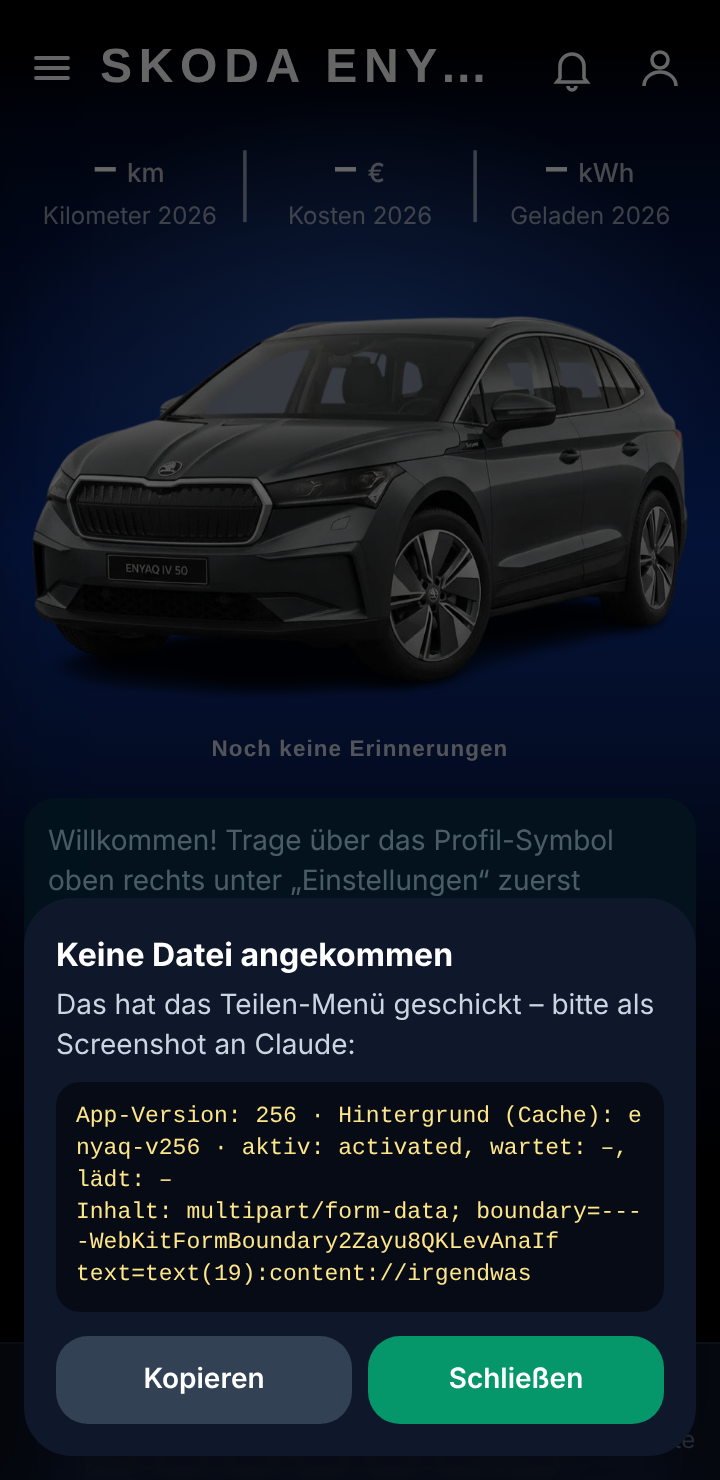
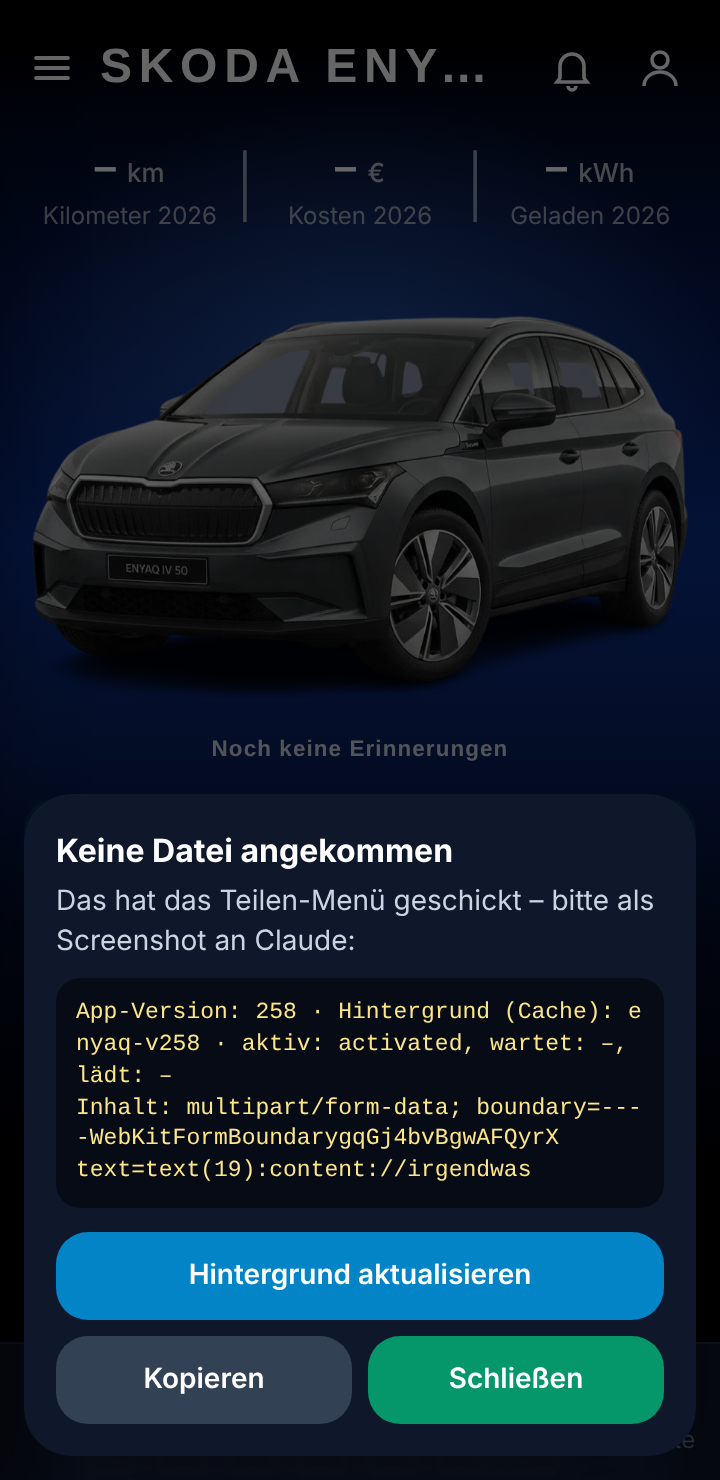
Teilen-Menü (Samsung Internet): formData() scheitert dort – Datei aus dem Rohinhalt selbst auslesen
Claude-Session: https://claude.ai/code/session_01AEp6y4YjJFmESYQ6H67tzx

Changed region(s): [[0.0611, 0.5595, 0.9472, 0.9014]]

diff --git a/sw.js b/sw.js
@@ -5,11 +5,11 @@
  * - Die KI-Abfrage (/api/…) wird NIE gecacht und läuft immer übers Netz.
  * Bei größeren Änderungen am Cache-Konzept CACHE_VERSION erhöhen. */
 
-const CACHE_VERSION = 'v257';
+const CACHE_VERSION = 'v258';
 const CACHE_NAME = 'enyaq-' + CACHE_VERSION;
 
 // Dateien, die beim Installieren vorab geladen werden
-const SAME_ORIGIN_ASSETS = ['./', './index.html', './app.css?v=257', './app.js?v=257', './Bilder/Enyaq/hero/1.webp'];
+const SAME_ORIGIN_ASSETS = ['./', './index.html', './app.css?v=258', './app.js?v=258', './Bilder/Enyaq/hero/1.webp'];
 const CDN_ASSETS = [
   'https://cdn.jsdelivr.net/npm/chart.js@4.4.3/dist/chart.umd.min.js'
 ];
@@ -37,6 +37,17 @@ self.addEventListener('activate', (event) => {
   })());
 });
 
+/** multipart/form-data als Text zerlegen → [{ name, filename, type, data }] (nur für Textdateien gedacht) */
+function shareParts(body, ct) {
+  const m = /boundary=(?:"([^"]+)"|([^;]+))/i.exec(ct || ''), b = m ? (m[1] || m[2]).trim() : (/^--([^\r\n]+)/.exec(body) || [])[1];
+  if (!b) return [];
+  return body.split('--' + b).slice(1).filter((p) => !/^--\s*$/.test(p) && p.trim() !== '--').map((p) => {
+    p = p.replace(/^\r?\n/, ''); const i = p.search(/\r?\n\r?\n/); if (i < 0) return null;
+    const head = p.slice(0, i), data = p.slice(i).replace(/^\r?\n\r?\n/, '').replace(/\r?\n$/, '');
+    const g = (re) => (re.exec(head) || [])[1] || '';
+    return { name: g(/name="([^"]*)"/i), filename: g(/filename="([^"]*)"/i), type: g(/content-type:\s*([^\r\n;]+)/i).trim(), data };
+  }).filter(Boolean);
+}
 self.addEventListener('fetch', (event) => {
   const req = event.request;
   const url = new URL(req.url);
@@ -55,7 +66,16 @@ self.addEventListener('fetch', (event) => {
         const f = ent.map((e) => e[1]).find((v) => v && typeof v !== 'string' && v.size > 0), t = ent.map((e) => e[1]).find((v) => typeof v === 'string' && /Start of trip/.test(v));
         if (f) await cache.put('/share-file', new Response(f, { headers: { 'content-type': f.type || 'text/csv', 'x-name': encodeURIComponent(f.name || 'fahrtenbuch.csv') } }));
         else if (t) await cache.put('/share-file', new Response(t, { headers: { 'content-type': 'text/csv', 'x-name': 'fahrtenbuch.csv' } }));
-      } catch (err) { dbg.err = String(err && err.message || err); try { dbg.body = (await raw.text()).slice(0, 200); } catch (e) { } }
+      } catch (err) {
+        /* Samsung Internet: formData() scheitert („Failed to fetch“), der Rohinhalt ist aber lesbar → multipart selbst zerlegen (CSV ist Text) */
+        dbg.err = String(err && err.message || err);
+        try {
+          const body = await raw.text(), part = shareParts(body, dbg.ct).find((x) => x.filename || /Start of trip/.test(x.data));
+          dbg.keys = shareParts(body, dbg.ct).map((x) => x.name + '=' + (x.filename ? 'file:' + x.filename + '|' + x.type + '|' + x.data.length : 'text(' + x.data.length + ')'));
+          if (part && part.data) { await cache.put('/share-file', new Response(part.data, { headers: { 'content-type': part.type || 'text/csv', 'x-name': encodeURIComponent(part.filename || 'fahrtenbuch.csv') } })); dbg.fallback = true; }
+          else dbg.body = body.slice(0, 200);
+        } catch (e) { dbg.err += ' / ' + (e && e.message || e); }
+      }
       try { await cache.put('/share-debug', new Response(JSON.stringify(dbg), { headers: { 'content-type': 'application/json' } })); } catch (e) { }
       return Response.redirect(new URL('/?go=fb-share', self.location.origin).href, 303);
     })());

diff --git a/index.html b/index.html
@@ -205,7 +205,7 @@
   @media (prefers-reduced-motion: reduce) { #bd-conf i, #bdg-conf i { animation: none; top: var(--y, 10%); } #bd-card, #bdg-card { animation: none; } }
 </style>
 <!-- Tailwind fertig gebaut (npm run css) – am Ende des Kopfs wie früher das CDN, damit die Reihenfolge der Regeln gleich bleibt -->
-<link rel="stylesheet" href="/app.css?v=257">
+<link rel="stylesheet" href="/app.css?v=258">
 </head>
 <body class="bg-black text-slate-100 min-h-screen">
 
@@ -1862,7 +1862,7 @@
   </div>
 </nav>
 
-<script src="/app.js?v=257"></script>   <!-- App-Logik: gebaut aus src/*.js (npm run js) -->
+<script src="/app.js?v=258"></script>   <!-- App-Logik: gebaut aus src/*.js (npm run js) -->
 <script type="module">
 /* Firebase (modular SDK). Die Konfiguration ist kein Geheimnis – geschützt wird über Auth + Firestore-Regeln. */
 import { initializeApp } from 'https://www.gstatic.com/firebasejs/10.14.1/firebase-app.js';
